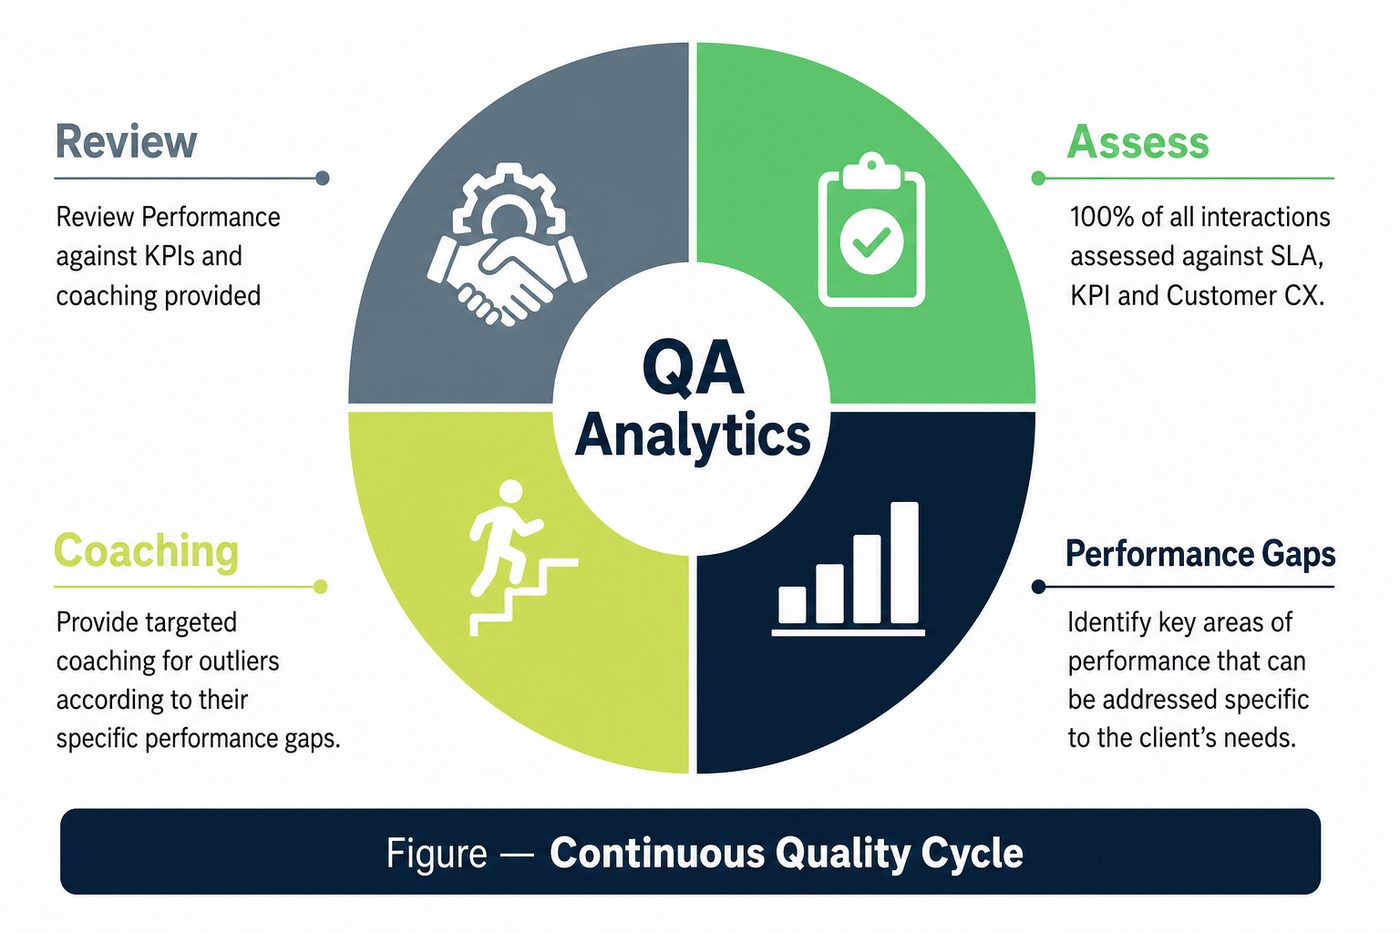
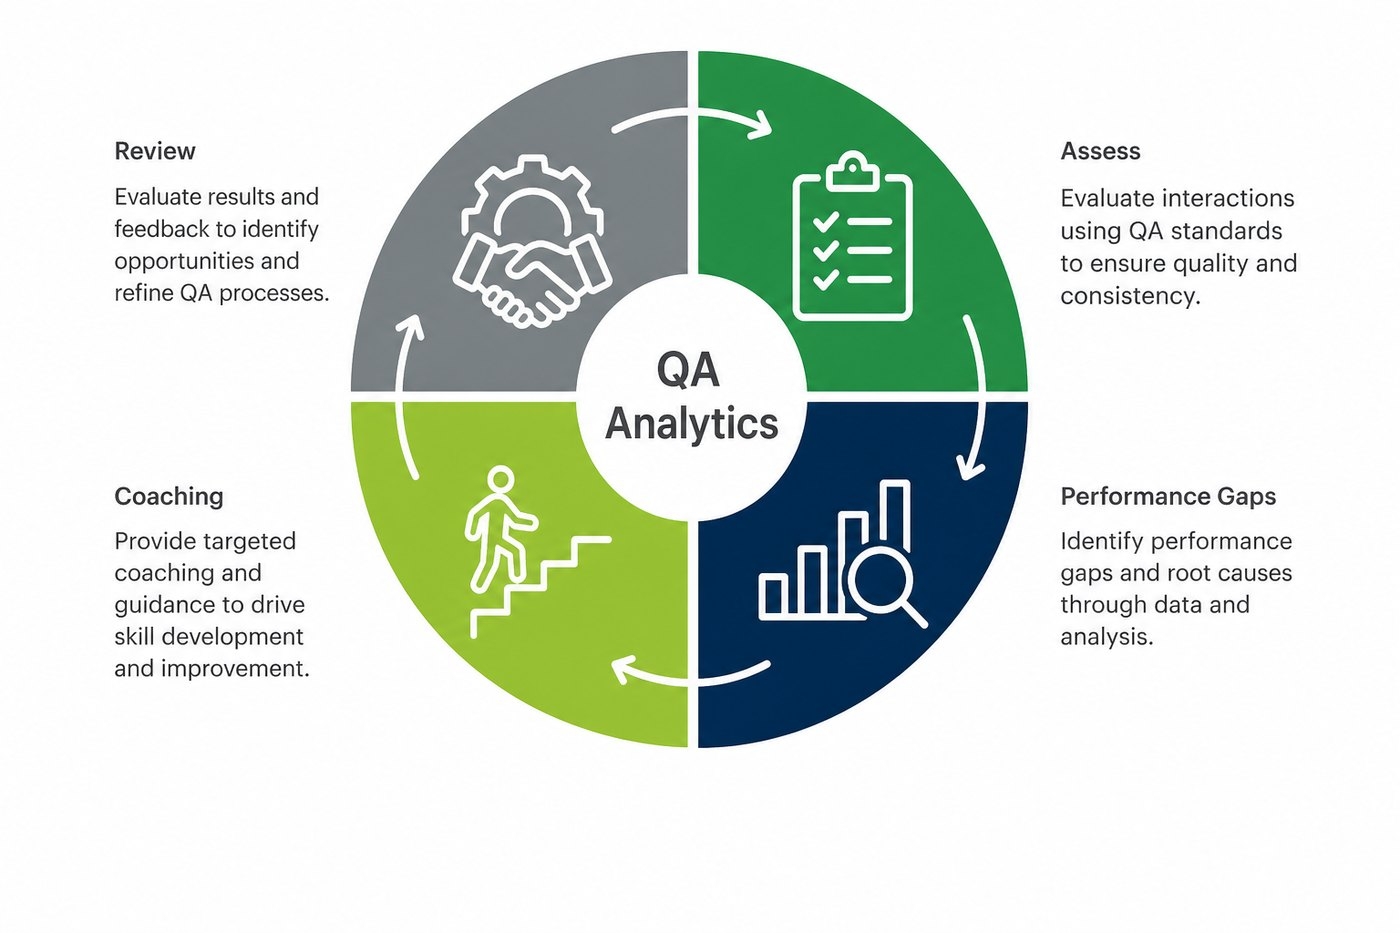
Remove CX benchmarks and fix duplicated QA figure captions
Drop Illustrative CX Benchmarks and accent callouts from Quality &
Analytics, replace cycle/metrics graphics without baked-in captions,
and keep a single smaller HTML figcaption style.

diff --git a/trilogydigital/index.html b/trilogydigital/index.html
@@ -8,7 +8,7 @@
   <link rel="preconnect" href="https://fonts.googleapis.com">
   <link rel="preconnect" href="https://fonts.gstatic.com" crossorigin>
   <link href="https://fonts.googleapis.com/css2?family=Inter:wght@400;500;600;700&family=Poppins:wght@500;600;700&display=swap" rel="stylesheet">
-  <link rel="stylesheet" href="styles.css?v=qa-workflow-2">
+  <link rel="stylesheet" href="styles.css?v=qa-cleanup-1">
   <style>
     .cover__brand { align-items: center !important; text-align: center !important; }
     .cover__logo { margin-left: auto; margin-right: auto; }
@@ -1396,7 +1396,7 @@
   </article>
 </div>
 
-<h3>II-QA Scoring Methodology</h3><div class="prose"><p>Unlike the standard two-tier weighted scorecard used by most contact centres, Genii's II-QA (Interaction Intelligence – Quality Assurance) is a fully customisable, multi-tier scorecard built around your KPIs — scoring both agent behaviour and business-level limitations. Scores are calculated as Applied Weight ÷ Applicable Weight × 100, with N/A answers excluded from the denominator so results reflect real, controllable performance.</p></div><div class="table-wrap"><table><thead><tr><th>Element</th><th>Approach</th></tr></thead><tbody><tr><td>Scorecard model</td><td>Blank, fully customisable campaign built from your KPIs — multiple sections, multiple output-metric questions</td></tr><tr><td>Assessment / pass target</td><td>Recommended 80% assessment target and 80% pass target, tuned per programme</td></tr><tr><td>Scoring failures</td><td>Agent-controllable fail scores 0; non-controllable business fail scores 0 but does not affect the agent</td></tr><tr><td>Calibration</td><td>Quality-Manager-run gauge assessments on live calls (zero agent impact); high-variance assessors flagged</td></tr></tbody></table></div><h3>Genii Analytics — Interaction Intelligence</h3><div class="prose"><p>Our analytics partner Genii moves quality beyond traditional QA toward true Interaction Intelligence — turning contact-centre data from a cost centre into a strategic asset. Where most tools tell you what happened, Genii tells you why it happened, which agent behaviours are driving it, and exactly what to do next. Their models carry a home-field advantage in the South African BPO market, tuned for local accents, cultural nuance and high-empathy service.</p></div><div class="pillars pillars--3"><div class="pillar"><h4>Gen-Core — Digitise QA</h4><p>Digitises 100% of interactions, replacing 1% manual sampling with full-coverage automated scoring so every agent can be developed on real, complete data.</p></div><div class="pillar"><h4>Gen-Ai Connect — Behavioural Insight</h4><p>Layers behavioural science on top of the data — root-cause analysis, micro-friction tracking and linguistic DNA mapping of top-performer behaviours.</p></div><div class="pillar"><h4>Gen-Ai Ultra — Commercial Outcomes</h4><p>Correlates interactions to commercial outcomes — predicting churn risk and prescribing the exact retention, sales or resolution action to protect margin.</p></div></div><h3>The Four Layers of Interaction Intelligence</h3><ul class="list-check"><li>Descriptive — what happened: interaction summaries and metrics across 100% of contacts.</li><li>Diagnostic — why it happened: root-cause and trend analysis behind the numbers.</li><li>Predictive — what happens next: forecasting churn, buying signals and repeat demand before they surface.</li><li>Prescriptive — what to do about it: recommending the specific action or coaching path to change the outcome.</li></ul><div class="callout">Most tools stop at the first one or two layers. Genii operates across all four — turning raw interaction data into prescriptive, revenue-driving action.</div><h3>Proving Value Fast — The Discover Audit</h3><ul class="list-check"><li>Insights-as-a-Service — a Discover report in weeks, not the 6–12 months typical of enterprise platforms, proving ROI before any large commitment.</li><li>Four pain points solved — service (process friction and repeat demand), sales (buying signals and lead leakage), retention (early churn signals), and collections (commitment-integrity analysis) — all within compliance guardrails.</li><li>Human-in-the-loop Academy — upskills Quality Assessors into Interaction Intelligence Analysts, so insights are genuinely acted upon rather than shelved.</li></ul><div class="callout">Where AI stops, Genii continues — not just signals, but solutions. Combining deep contextual analysis with operational expertise, every interaction becomes one of your most valuable assets: “we help you read between the lines to drive ROI.”</div><h3>Continuous Improvement — Four Pillars</h3><ul class="list-check"><li>FCR — deep root-cause analytics identifying repeat-contact drivers and digital deflection opportunities.</li><li>CSAT / Sentiment — 100% AI sentiment analysis and integrated Voice of Customer loops, operationalised within 48 hours.</li><li>Operational improvement — weekly coaching huddles and monthly MBR action tracking driven by data, not lagging reports.</li><li>Technological improvement — our “Test Kitchen” model designs, tests and deploys new capabilities in a sandbox without disrupting BAU.</li></ul><h3>Illustrative CX Benchmarks</h3><div class="stats stats--4"><div class="stat"><div class="stat__value">&gt;4.2 / 5</div><div class="stat__label">CSAT across UK programmes</div></div><div class="stat"><div class="stat__value">&gt;70</div><div class="stat__label">Relationship NPS</div></div><div class="stat"><div class="stat__value">86%</div><div class="stat__label">First Contact Resolution</div></div><div class="stat"><div class="stat__value">27 sec</div><div class="stat__label">Average Speed to Answer</div></div></div><div class="callout">Figures are historical/illustrative and reflect mature, post-go-live programmes. Programme-specific benchmarks and evidence packs are provided at RFP stage.</div><div class="callout">Accent &amp; language position: South African English is clear, natural and consistently rated highly by UK consumers. We do not deploy accent neutralisation — our CSAT and NPS performance across multi-year UK programmes supports this position.</div>
+<h3>II-QA Scoring Methodology</h3><div class="prose"><p>Unlike the standard two-tier weighted scorecard used by most contact centres, Genii's II-QA (Interaction Intelligence – Quality Assurance) is a fully customisable, multi-tier scorecard built around your KPIs — scoring both agent behaviour and business-level limitations. Scores are calculated as Applied Weight ÷ Applicable Weight × 100, with N/A answers excluded from the denominator so results reflect real, controllable performance.</p></div><div class="table-wrap"><table><thead><tr><th>Element</th><th>Approach</th></tr></thead><tbody><tr><td>Scorecard model</td><td>Blank, fully customisable campaign built from your KPIs — multiple sections, multiple output-metric questions</td></tr><tr><td>Assessment / pass target</td><td>Recommended 80% assessment target and 80% pass target, tuned per programme</td></tr><tr><td>Scoring failures</td><td>Agent-controllable fail scores 0; non-controllable business fail scores 0 but does not affect the agent</td></tr><tr><td>Calibration</td><td>Quality-Manager-run gauge assessments on live calls (zero agent impact); high-variance assessors flagged</td></tr></tbody></table></div><h3>Genii Analytics — Interaction Intelligence</h3><div class="prose"><p>Our analytics partner Genii moves quality beyond traditional QA toward true Interaction Intelligence — turning contact-centre data from a cost centre into a strategic asset. Where most tools tell you what happened, Genii tells you why it happened, which agent behaviours are driving it, and exactly what to do next. Their models carry a home-field advantage in the South African BPO market, tuned for local accents, cultural nuance and high-empathy service.</p></div><div class="pillars pillars--3"><div class="pillar"><h4>Gen-Core — Digitise QA</h4><p>Digitises 100% of interactions, replacing 1% manual sampling with full-coverage automated scoring so every agent can be developed on real, complete data.</p></div><div class="pillar"><h4>Gen-Ai Connect — Behavioural Insight</h4><p>Layers behavioural science on top of the data — root-cause analysis, micro-friction tracking and linguistic DNA mapping of top-performer behaviours.</p></div><div class="pillar"><h4>Gen-Ai Ultra — Commercial Outcomes</h4><p>Correlates interactions to commercial outcomes — predicting churn risk and prescribing the exact retention, sales or resolution action to protect margin.</p></div></div><h3>The Four Layers of Interaction Intelligence</h3><ul class="list-check"><li>Descriptive — what happened: interaction summaries and metrics across 100% of contacts.</li><li>Diagnostic — why it happened: root-cause and trend analysis behind the numbers.</li><li>Predictive — what happens next: forecasting churn, buying signals and repeat demand before they surface.</li><li>Prescriptive — what to do about it: recommending the specific action or coaching path to change the outcome.</li></ul><div class="callout">Most tools stop at the first one or two layers. Genii operates across all four — turning raw interaction data into prescriptive, revenue-driving action.</div><h3>Proving Value Fast — The Discover Audit</h3><ul class="list-check"><li>Insights-as-a-Service — a Discover report in weeks, not the 6–12 months typical of enterprise platforms, proving ROI before any large commitment.</li><li>Four pain points solved — service (process friction and repeat demand), sales (buying signals and lead leakage), retention (early churn signals), and collections (commitment-integrity analysis) — all within compliance guardrails.</li><li>Human-in-the-loop Academy — upskills Quality Assessors into Interaction Intelligence Analysts, so insights are genuinely acted upon rather than shelved.</li></ul><div class="callout">Where AI stops, Genii continues — not just signals, but solutions. Combining deep contextual analysis with operational expertise, every interaction becomes one of your most valuable assets: “we help you read between the lines to drive ROI.”</div><h3>Continuous Improvement — Four Pillars</h3><ul class="list-check"><li>FCR — deep root-cause analytics identifying repeat-contact drivers and digital deflection opportunities.</li><li>CSAT / Sentiment — 100% AI sentiment analysis and integrated Voice of Customer loops, operationalised within 48 hours.</li><li>Operational improvement — weekly coaching huddles and monthly MBR action tracking driven by data, not lagging reports.</li><li>Technological improvement — our “Test Kitchen” model designs, tests and deploys new capabilities in a sandbox without disrupting BAU.</li></ul>
         </div>
       </section>
       <section class="proposal-page" id="section-13">

diff --git a/trilogydigital/styles.css b/trilogydigital/styles.css
@@ -1744,6 +1744,16 @@ tr:nth-child(even) td {
   aspect-ratio: 16 / 10;
 }
 
+.figure--qa figcaption {
+  font-size: 0.72rem;
+  font-weight: 400;
+  line-height: 1.4;
+  color: var(--muted-foreground);
+  background: rgba(239, 242, 246, 0.5);
+  border-top: 1px solid rgba(218, 223, 227, 0.6);
+  padding: 0.7rem 1rem;
+}
+
 .workflow-callouts {
   display: grid;
   gap: 0.85rem;
